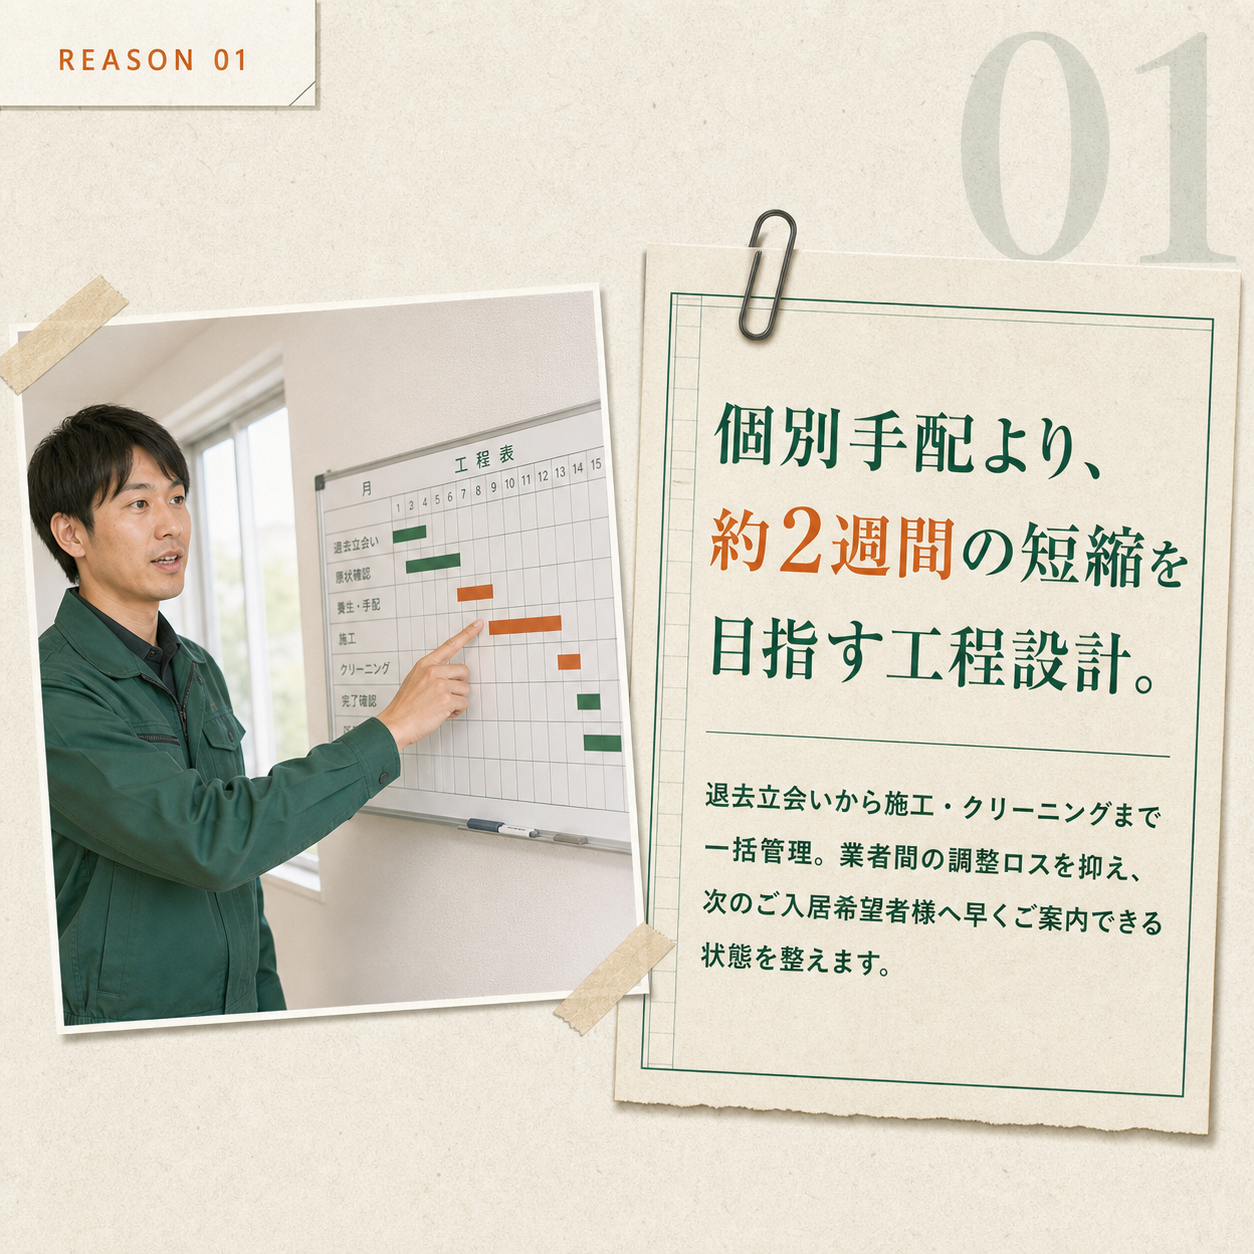
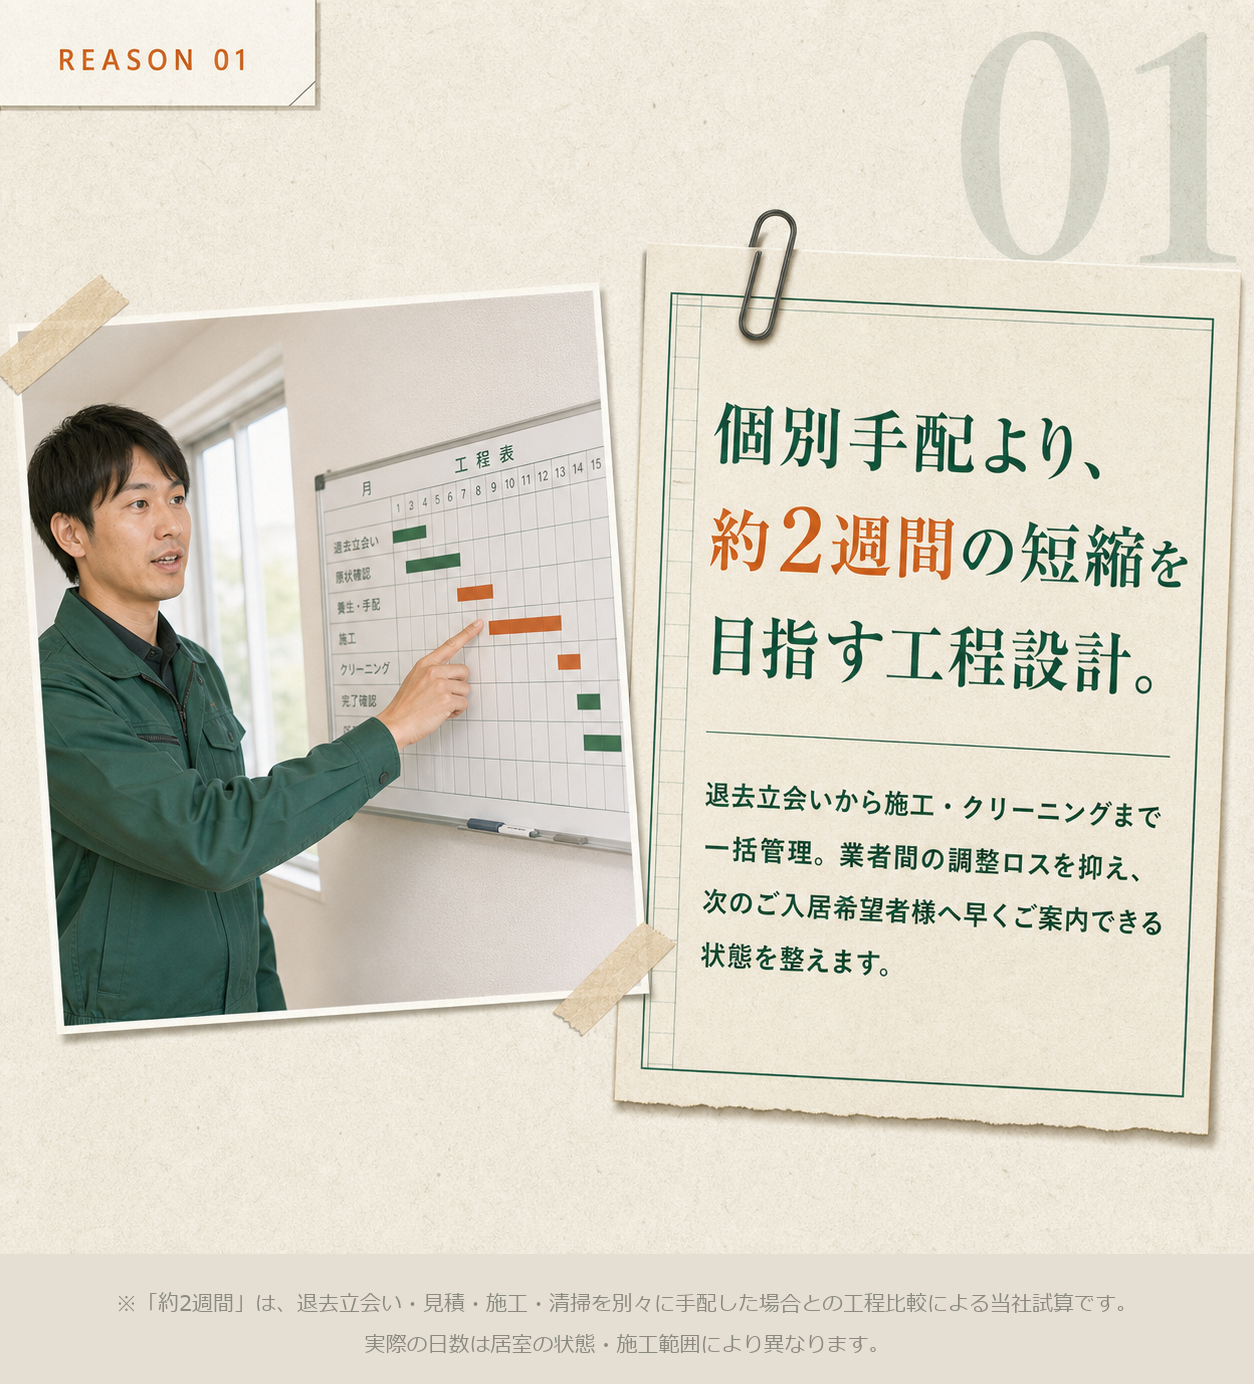
CEOフィードバック反映: CTA帯トリム・コピーボタン削除・REASON01注記焼き込み・FAQ上部pad・ABOUTロゴ帯削除・フッターロゴ拡大・問い合わせをフォームリンク化

diff --git a/index.html b/index.html
@@ -18,9 +18,6 @@
   .note { background: #f7f5f0; padding: 12px 16px; font-size: 11px; line-height: 1.7; color: #8a8a80; }
   .hotspot-wrap { position: relative; }
   .hotspot { position: absolute; display: block; }
-  .copy-row { background: #f7f5f0; text-align: center; padding: 10px 16px 18px; }
-  .copy-btn { display: inline-block; background: none; border: 1px solid #2e9e4f; color: #1d6b5c; border-radius: 4px; padding: 8px 18px; font-size: 13px; cursor: pointer; transition: 0.2s; font-family: inherit; }
-  .copy-btn:hover { background: #e8f3ec; }
   .inquiry { background: #f7f5f0; padding: 40px 24px 36px; text-align: center; }
   .inquiry .label { display: inline-block; border: 1px solid #c2551e; color: #c2551e; font-size: 12px; letter-spacing: 2px; padding: 3px 14px; margin-bottom: 14px; }
   .inquiry h2 { font-family: "Hiragino Mincho ProN", "Yu Mincho", serif; font-size: 26px; color: #1d6b5c; margin-bottom: 20px; }
@@ -33,8 +30,8 @@
   .company th { background: #efece4; color: #1d6b5c; font-weight: bold; width: 34%; }
   .company a { color: #1d6b5c; }
   footer { background: #1d6b5c; text-align: center; padding: 36px 24px 28px; }
-  footer .panel { background: #fff; border-radius: 8px; display: inline-block; padding: 14px 26px; margin-bottom: 16px; }
-  footer .panel img { width: 60%; max-width: 260px; display: inline-block; }
+  footer .panel { background: #fff; border-radius: 8px; display: block; padding: 18px 20px; margin: 0 auto 16px; width: 100%; }
+  footer .panel img { width: 100%; display: block; }
   footer .tagline { color: #fff; font-family: "Hiragino Mincho ProN", "Yu Mincho", serif; font-size: 14px; line-height: 1.8; }
   footer .small { color: rgba(255,255,255,0.65); font-size: 10px; margin-top: 12px; line-height: 1.8; }
   .fixed-cta { position: fixed; bottom: 0; left: 50%; transform: translateX(-50%); width: 100%; max-width: 560px; z-index: 100; }
@@ -52,9 +49,8 @@
   <!-- 02 相談カード帯 -->
   <div class="stack hotspot-wrap">
     <img src="images/v4-02.png" alt="まずは無料相談。お気軽にお問い合わせください。退去予定日から工程を相談する" loading="lazy">
-    <a class="hotspot mail-link" style="left:10%; top:55%; width:80%; height:22%;" href="#" aria-label="退去予定日から工程を相談する"></a>
+    <a class="hotspot mail-link" style="left:10%; top:50%; width:80%; height:34%;" href="#" aria-label="退去予定日から工程を相談する"></a>
   </div>
-  <div class="copy-row"><button class="copy-btn" type="button">メールアドレスをコピー</button></div>
 
   <!-- 03-04 PROBLEM -->
   <div class="stack"><img src="images/v4-03.png" alt="介護施設の原状回復、こんなお悩みありませんか？ CASE01 次のご入居希望者様がいるのに、部屋の準備が間に合わない CASE02 通常のクリーニングでは、染み付いたにおいが取れない" loading="lazy"></div>
@@ -71,8 +67,7 @@
   <div class="stack"><img src="images/v4-07.png" alt="見積金額だけでは選びにくい、介護施設の原状回復。業者選びで確認したい3項目：消臭の方法・作業中の配慮・対応の範囲" loading="lazy"></div>
 
   <!-- 08 REASON -->
-  <div class="stack"><img src="images/v4-08a.png" alt="REASON01 個別手配より、約2週間の短縮を目指す工程設計。" loading="lazy"></div>
-  <div class="note">※「約2週間」は、退去立会い・見積・施工・清掃を別々に手配した場合との工程比較による当社試算です。実際の日数は居室の状態・施工範囲により異なります。</div>
+  <div class="stack"><img src="images/v4-08a.png" alt="REASON01 個別手配より、約2週間の短縮を目指す工程設計。※約2週間は個別手配時との工程比較による当社試算" loading="lazy"></div>
   <div class="stack"><img src="images/v4-08b.png" alt="REASON02 特有のにおいを、根本から。専用薬剤とオゾン除菌器で徹底リセット" loading="lazy"></div>
   <div class="stack"><img src="images/v4-08c.png" alt="REASON03 介護現場のマナーを、心得た施工。" loading="lazy"></div>
   <div class="stack"><img src="images/v4-08d.png" alt="REASON04 居室の外も、施設まるごと。共用部のLED化・定期巡回清掃・緊急対応まで" loading="lazy"></div>
@@ -80,7 +75,7 @@
   <!-- 09 CTA帯再掲 -->
   <div class="stack hotspot-wrap">
     <img src="images/v4-02.png" alt="まずは無料相談。退去予定日から工程を相談する" loading="lazy">
-    <a class="hotspot mail-link" style="left:10%; top:55%; width:80%; height:22%;" href="#" aria-label="退去予定日から工程を相談する"></a>
+    <a class="hotspot mail-link" style="left:10%; top:50%; width:80%; height:34%;" href="#" aria-label="退去予定日から工程を相談する"></a>
   </div>
 
   <!-- 10 MODEL CASE -->
@@ -102,7 +97,7 @@
   <!-- 14 CTA帯再掲 -->
   <div class="stack hotspot-wrap">
     <img src="images/v4-02.png" alt="まずは無料相談。退去予定日から工程を相談する" loading="lazy">
-    <a class="hotspot mail-link" style="left:10%; top:55%; width:80%; height:22%;" href="#" aria-label="退去予定日から工程を相談する"></a>
+    <a class="hotspot mail-link" style="left:10%; top:50%; width:80%; height:34%;" href="#" aria-label="退去予定日から工程を相談する"></a>
   </div>
 
   <!-- 15 初回相談 -->
@@ -124,8 +119,7 @@
   <section class="inquiry">
     <span class="label">INQUIRY</span>
     <h2>お問い合わせ</h2>
-    <a class="cta-btn mail-link" href="#">✉ 退去予定日から工程を相談する</a>
-    <div style="margin-top:14px;"><button class="copy-btn" type="button">メールアドレスをコピー</button></div>
+    <a class="cta-btn mail-link" href="#">退去予定日から工程を相談する</a>
     <p class="small">即日〜翌営業日中にご返答します</p>
     <!-- FORM-SLOT: Googleフォーム等の埋込枠 -->
   </section>
@@ -151,25 +145,14 @@
 </div>
 
 <!-- 追従フッターCTAバー -->
-<div class="fixed-cta"><a class="mail-link" href="#">✉ 退去予定日から工程を相談する</a></div>
+<div class="fixed-cta"><a class="mail-link" href="#">退去予定日から工程を相談する</a></div>
 
 <script>
-  const CONTACT_EMAIL = "info@example.com"; // 仮。公開前に差し替え
-  const MAIL_SUBJECT = "原状回復のご相談";
-  const MAIL_BODY = "施設名：\n所在地：\n部屋数：\n退去予定日：\n希望入居時期：\nご相談内容：\n";
-  const mailtoHref = "mailto:" + CONTACT_EMAIL + "?subject=" + encodeURIComponent(MAIL_SUBJECT) + "&body=" + encodeURIComponent(MAIL_BODY);
-  document.querySelectorAll(".mail-link").forEach(a => { a.href = mailtoHref; });
-  document.querySelectorAll(".copy-btn").forEach(btn => {
-    btn.addEventListener("click", async () => {
-      try {
-        await navigator.clipboard.writeText(CONTACT_EMAIL);
-        const orig = btn.textContent;
-        btn.textContent = "コピーしました";
-        setTimeout(() => { btn.textContent = orig; }, 2000);
-      } catch (e) {
-        prompt("メールアドレス:", CONTACT_EMAIL);
-      }
-    });
+  const CONTACT_URL = "https://centerfield-inc.com/contact/";
+  document.querySelectorAll(".mail-link").forEach(a => {
+    a.href = CONTACT_URL;
+    a.target = "_blank";
+    a.rel = "noopener";
   });
 </script>
 </body>
